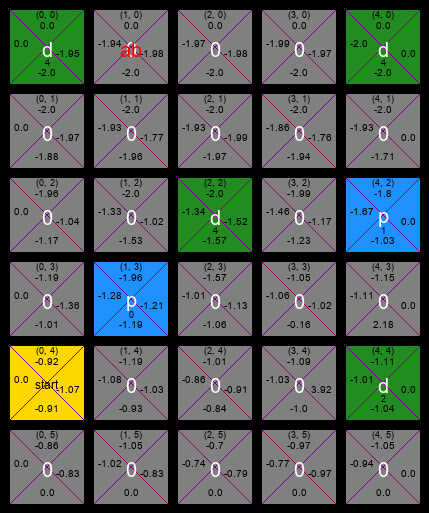
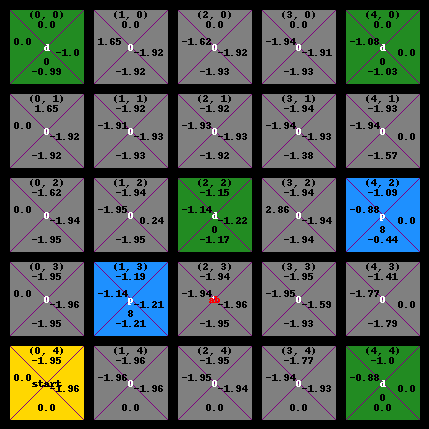
pulling

diff --git a/main.py b/main.py
@@ -119,7 +119,8 @@ def applyAction(action):
 
 
 def bestValidAction(state, actions):
-    max_val = -1
+    # init max_val to first val in list
+    max_val = q_table[state][actionToIndex(actions[0])]
     bestAction = actions[0]
     for action in actions:
         val = q_table[state][actionToIndex(action)]
@@ -205,7 +206,6 @@ def doSteps(steps, policy):
 
         # if terminal state reached
         # reset world, put agent back at start
-
         if len(pick_up_loc) == 0 and len(drop_off_loc) == 0:
             print('episode ', episode, 'is done | agent takes:', count_steps, 'steps')
             print("\nTerminal state reached")
@@ -237,7 +237,7 @@ def doSteps(steps, policy):
         count_steps += 1
 
         # visualize each step
-        watch = 0
+        watch = 1
 
         if steps != 500 and watch:
             print('\n' * 5)

diff --git a/Visualize/visualize.py b/Visualize/visualize.py
@@ -49,7 +49,7 @@ class Visualize:
         y = coor[1]
         start_pixel_x = gap + x * (block_size + gap)
         start_pixel_y = gap + y * (block_size + gap)
-        font = ImageFont.truetype('arial.ttf', font_s)
+        font = ImageFont.load_default()
         with Image.open('%s.png' % f_name) as img:
             draw = ImageDraw.Draw(img)
             text_w, text_h = draw.textsize(txt, font)
